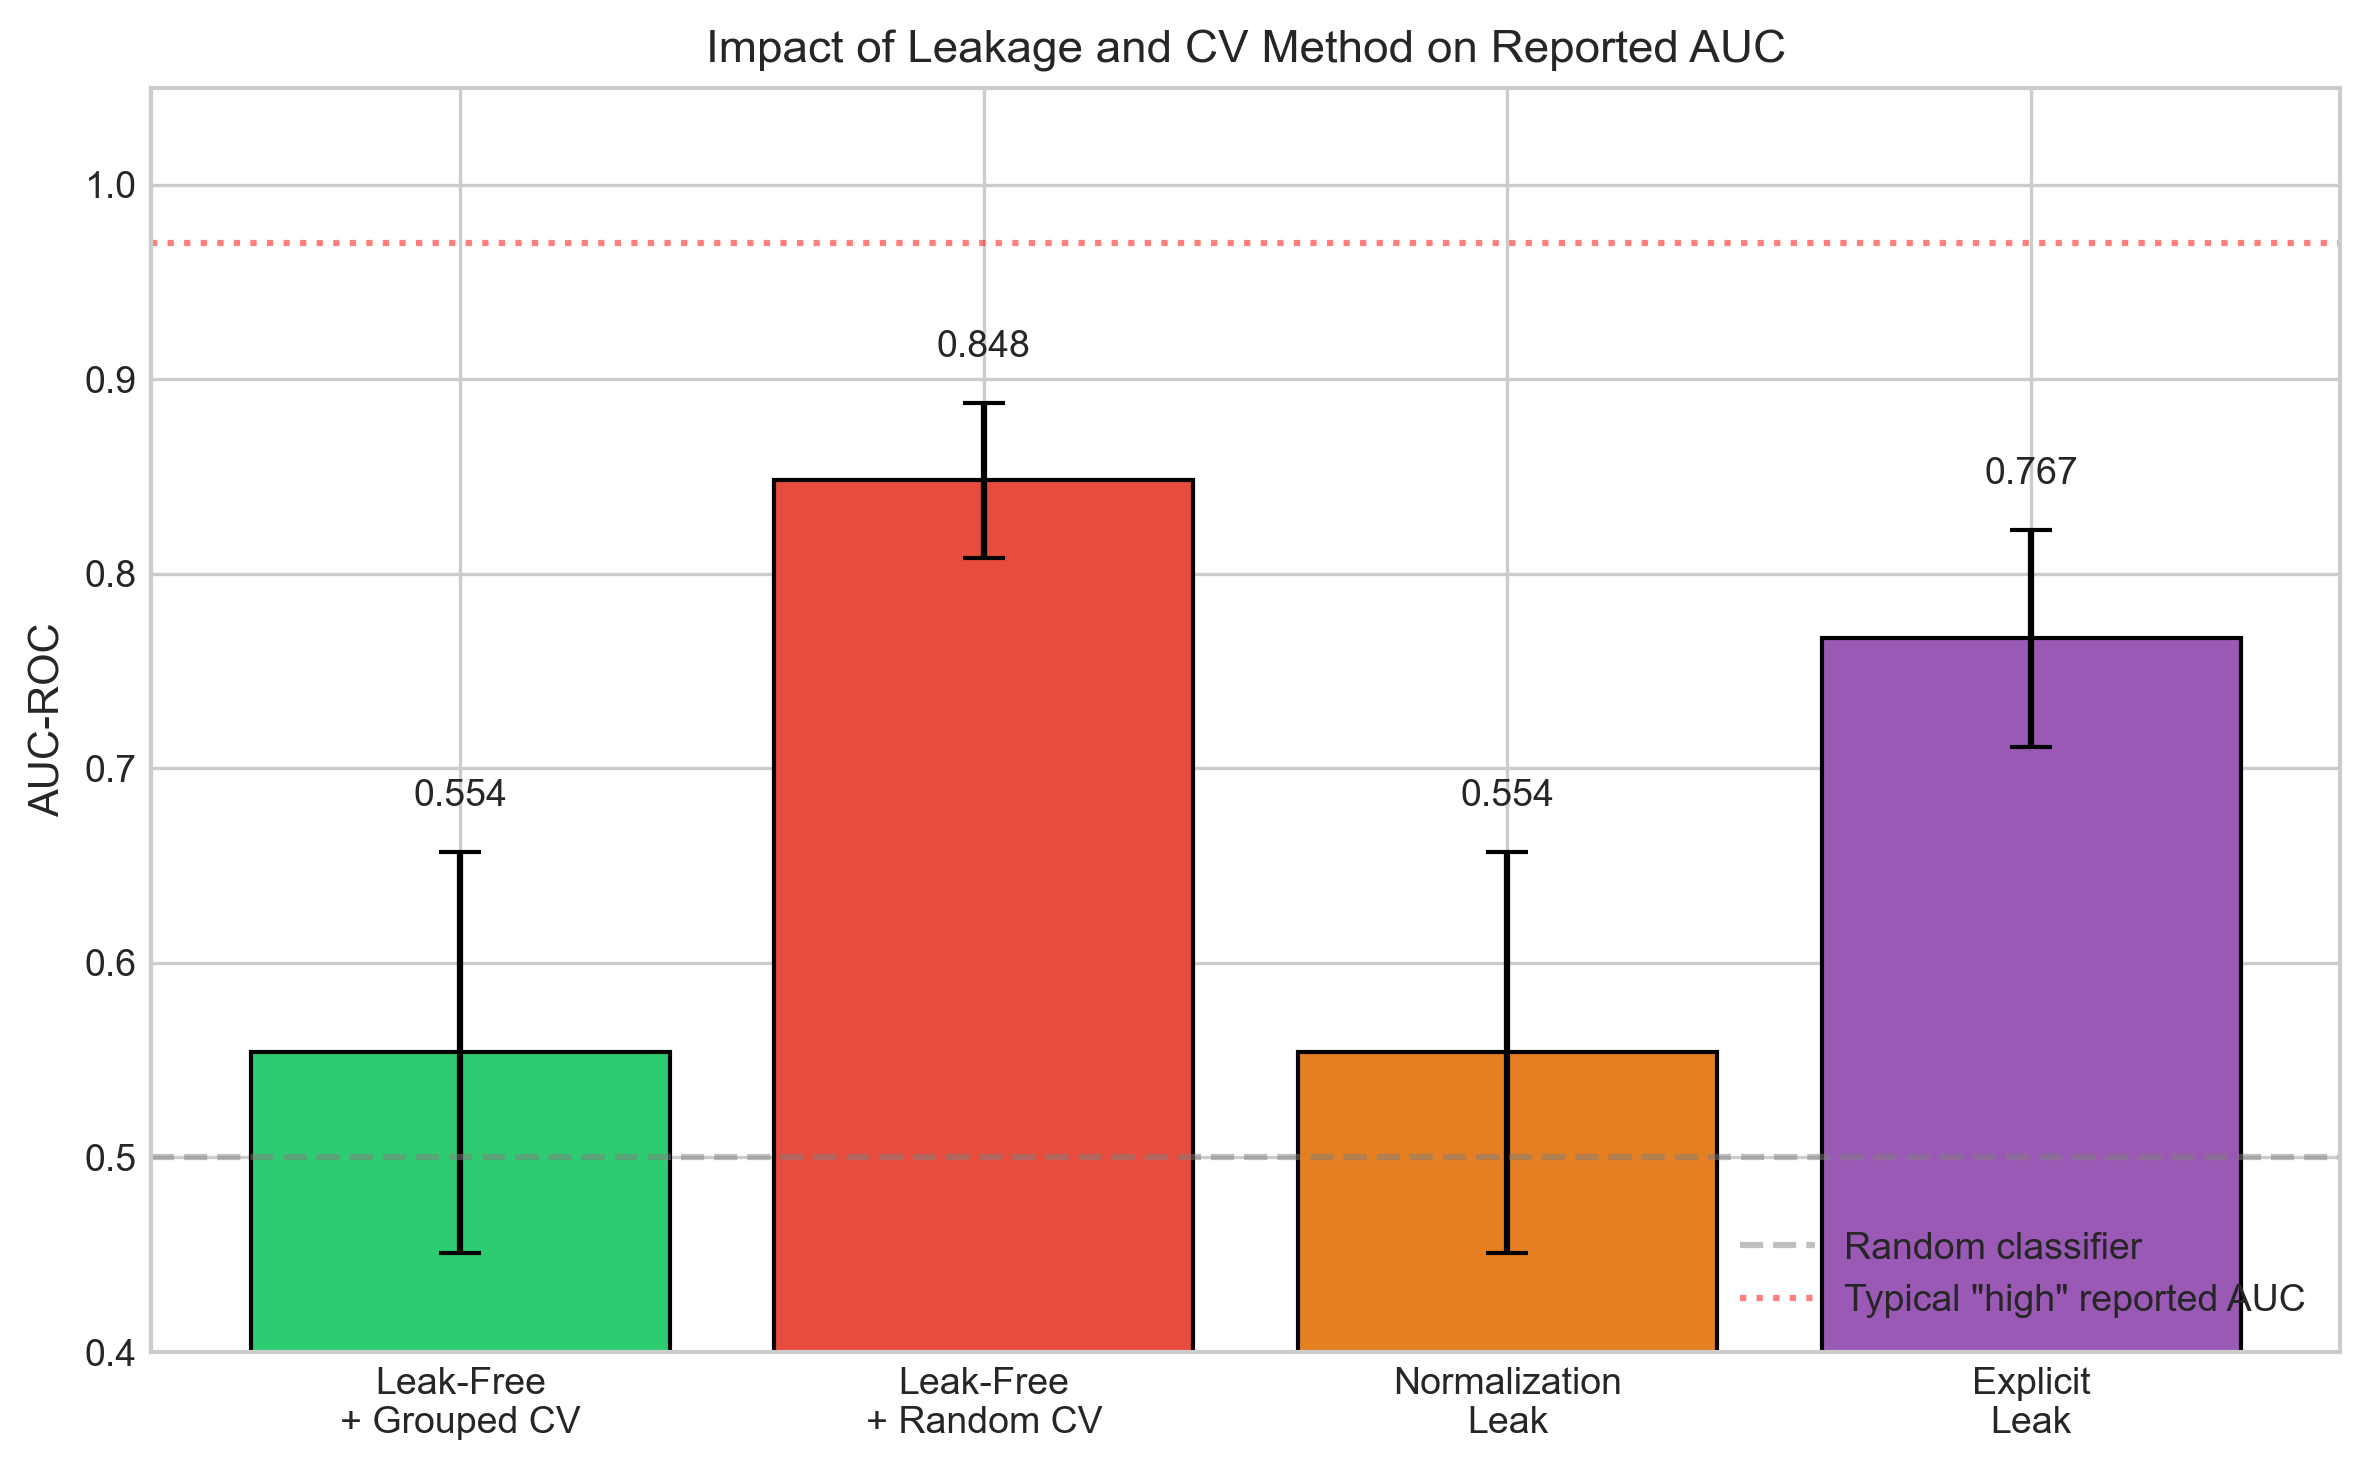
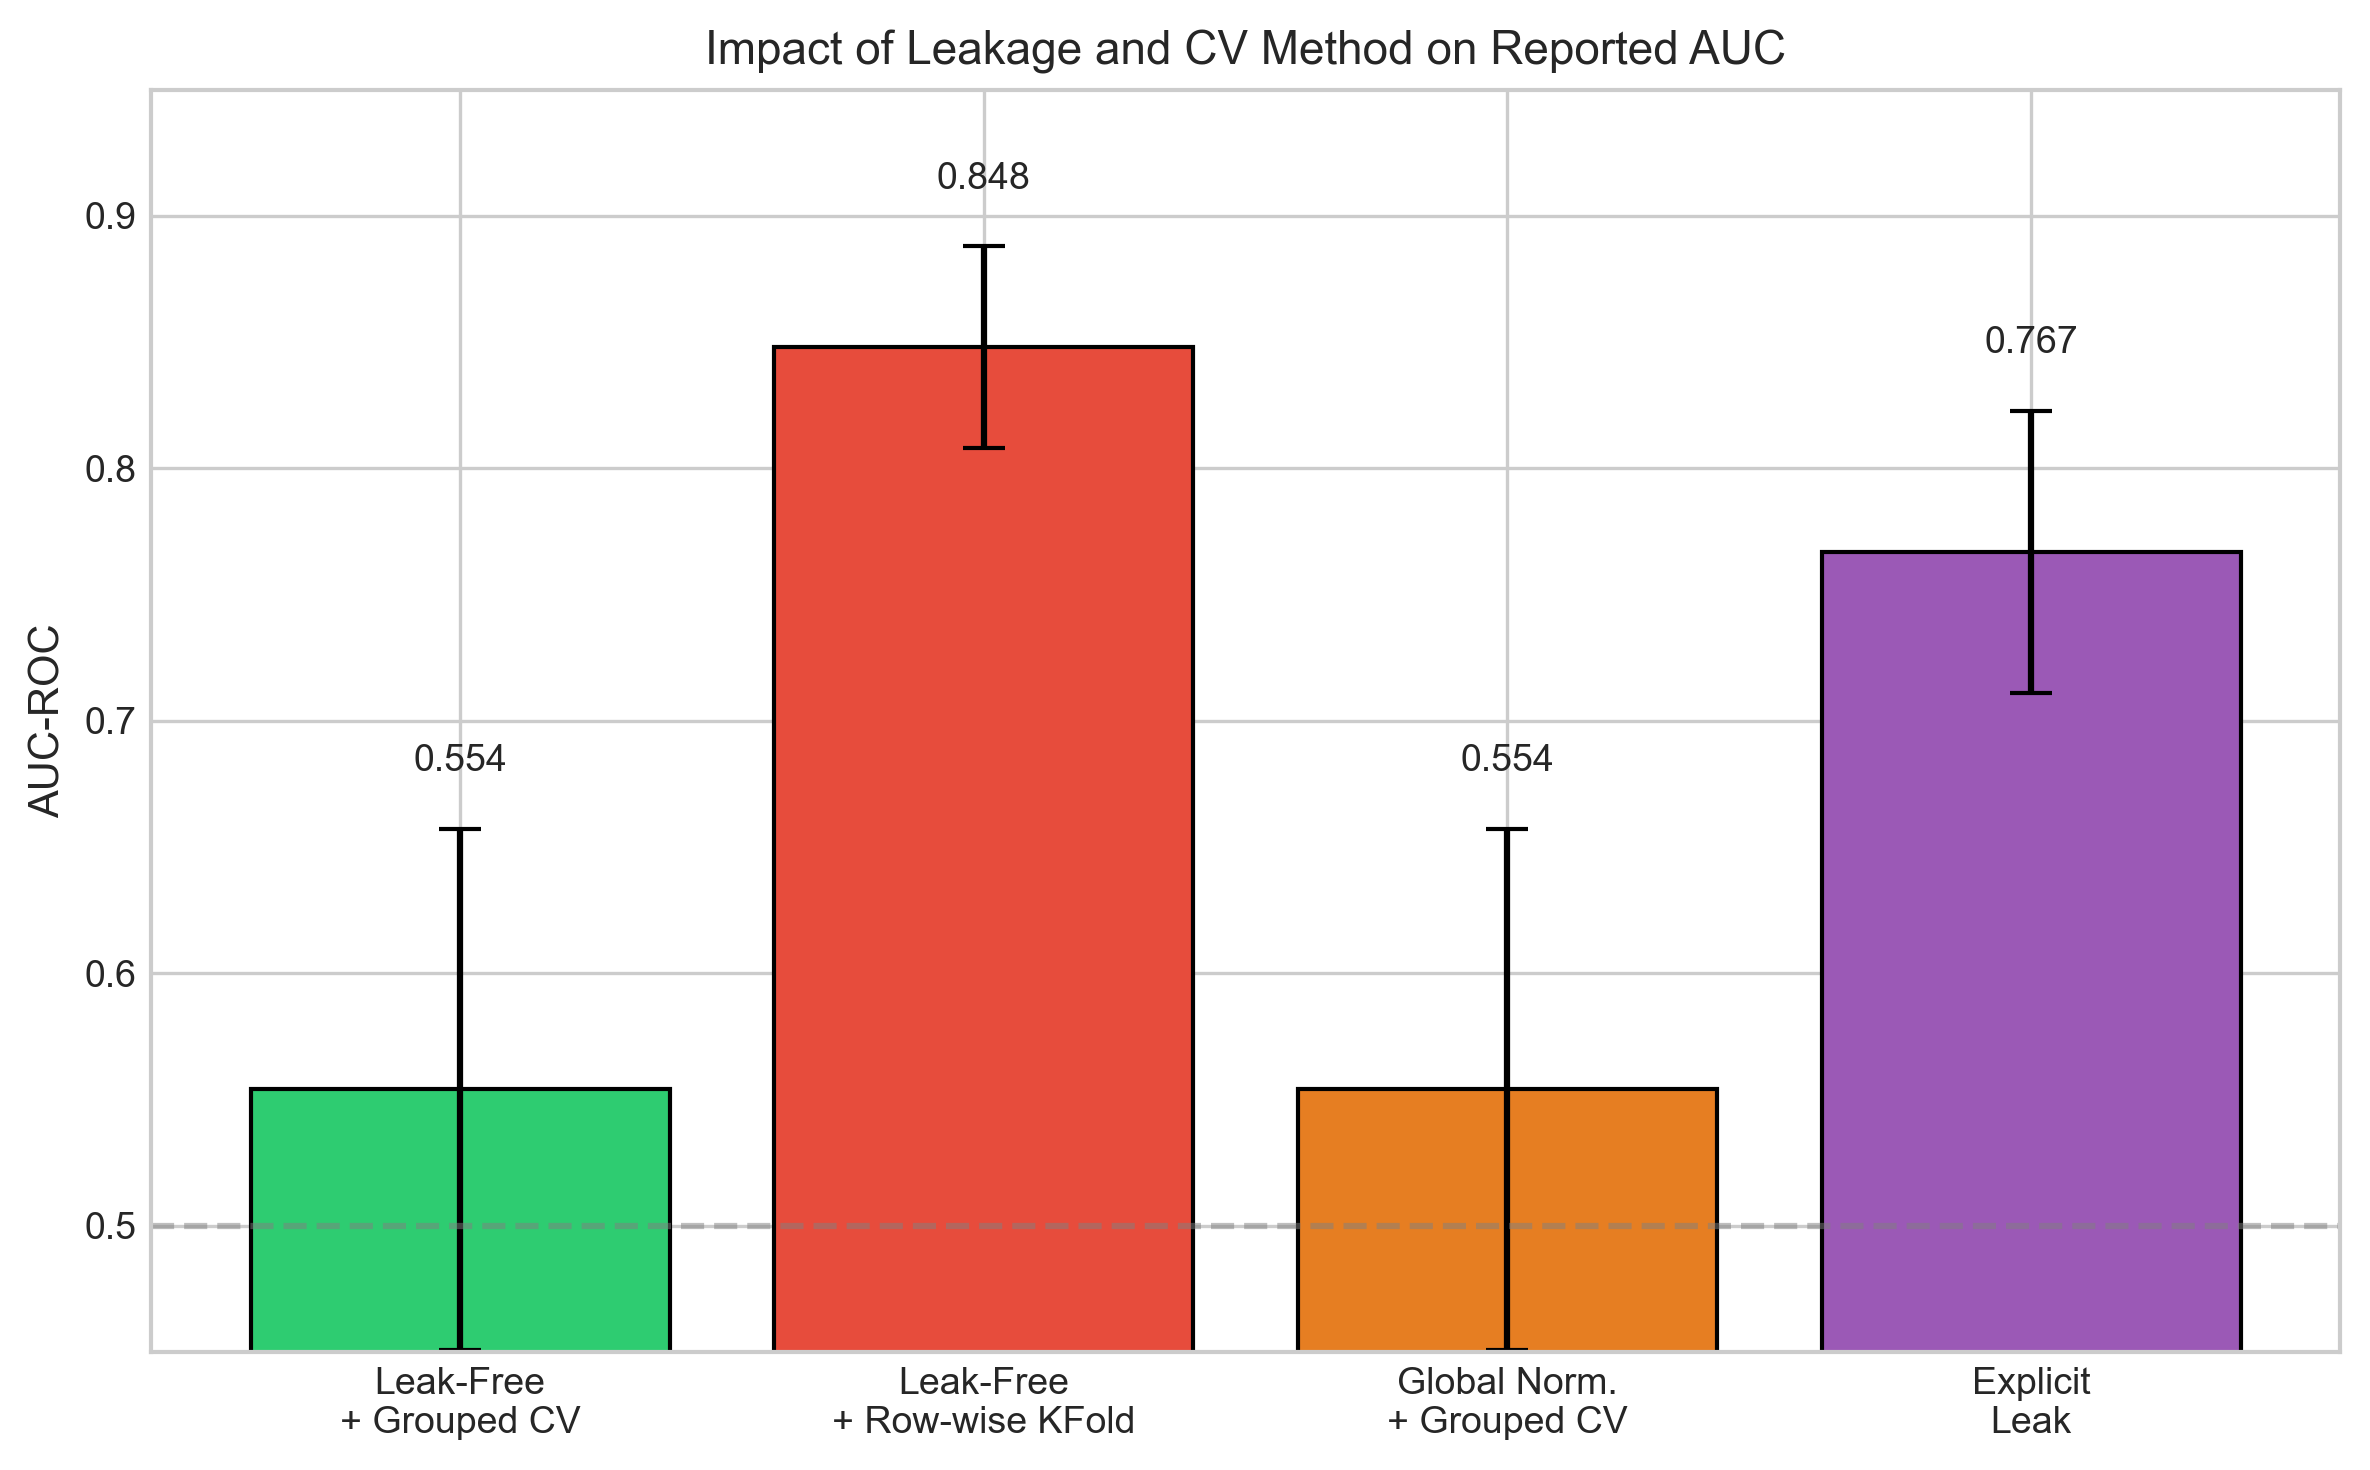
Polish IBERAMIA submission framing

diff --git a/main2_iberamia.tex b/main2_iberamia.tex
@@ -26,20 +26,20 @@
 \maketitle
 
 \begin{abstract}
-Trustworthy event forecasting in panel-expanded data depends on evaluation protocols that respect the dependence structure of episodes. A common workaround for small numbers of independent episodes expands each episode into daily observations, but this changes the evaluation problem: row-wise cross-validation can place observations from the same episode in both training and test sets, allowing a model to exploit episode-specific dependence rather than generalize to unseen episodes. We call this mechanism \emph{episode memorization}. We distinguish it from two related problems that are often conflated with it: explicit future-information leakage in features and preprocessing leakage from operations such as normalization or scaling. In a controlled benchmark with strictly causal features and a boosted-tree classifier, row-wise five-fold cross-validation inflates mean AUC from 0.55 to 0.85, whereas an explicit time-to-event leak reaches 0.77 under grouped five-fold evaluation. A compact robustness grid over three episode counts, three dependence levels, and three feature sizes shows that the mean $\DeltaCV$ gap remains near zero for logistic regression but rises from 0.15 to 0.18 for random forests and from 0.20 to 0.24 for boosted trees as dependence increases. Under a second DGP with monotone pre-event drift, full-trajectory episode normalization inflates grouped-CV AUC for logistic regression from 0.473 to 0.606. We therefore propose $\DeltaCV$, the gap between row-wise and grouped estimates, as a practical warning signal rather than a universal threshold, and we provide a dependence-aware evaluation protocol based on episode-grouped splitting and fold-local preprocessing. The contribution is methodological: a compact taxonomy, a mechanistic explanation, and a low-cost protocol for more trustworthy panel-expanded event forecasting.
+Trustworthy event forecasting in panel-expanded data depends on evaluation protocols that respect the dependence structure of episodes. A common workaround for small numbers of independent episodes expands each episode into daily observations, but this changes the evaluation problem: row-wise cross-validation can place observations from the same episode in both training and test sets, allowing a model to exploit episode-specific dependence rather than generalize to unseen episodes. We call this mechanism \emph{episode memorization}. We distinguish it from two related problems that are often conflated with it: explicit future-information leakage in features and preprocessing leakage from operations such as normalization or scaling. In a controlled benchmark with strictly causal features and a boosted-tree classifier, row-wise five-fold cross-validation increases mean AUC by 0.29, from 0.55 to 0.85. Under episode-grouped evaluation, an explicit time-to-event leak increases AUC by 0.21, from 0.55 to 0.77. A compact robustness grid over three episode counts, three dependence levels, and three feature sizes shows that the mean $\DeltaCV$ gap remains near zero for logistic regression but rises substantially for random forests and boosted trees as dependence increases. Under a second DGP with monotone pre-event drift, full-trajectory episode normalization inflates grouped-CV AUC for logistic regression from 0.473 to 0.606. We therefore propose $\DeltaCV$, the gap between row-wise and episode-grouped estimates, as a practical warning signal rather than a universal threshold, and we provide a dependence-aware evaluation protocol based on episode-grouped splitting and fold-local preprocessing. The contribution is methodological: a compact taxonomy, a mechanistic explanation, and a low-cost protocol for more trustworthy panel-expanded event forecasting.
 
 \keywords{pseudoreplication, cross-validation, panel data, event forecasting, episode memorization}
 \end{abstract}
 
 \section{Introduction}
 
-Trustworthy AI systems depend not only on model capacity, but also on evaluation protocols that match the deployment target. This is especially important in panel-expanded event forecasting, where the number of independent episodes is small but decisions may still rely on reported predictive accuracy. In domains such as conflict forecasting, clinical deterioration, and predictive maintenance, analysts may observe only 20--50 independent episodes with 10--20 features and then expand each episode into daily rows, turning a small set of evaluation units into hundreds of observations.
+Trustworthy AI systems depend not only on model capacity, but also on evaluation protocols that match the deployment target. This is especially important in panel-expanded event forecasting, where the number of independent episodes is small but decisions may still rely on reported predictive accuracy. In domains such as conflict forecasting~\cite{muchlinski2016,hegre2019}, clinical deterioration~\cite{rajkomar2018}, and predictive maintenance, analysts may observe only 20--50 independent episodes with 10--20 features and then expand each episode into daily rows, turning a small set of evaluation units into hundreds of observations. That is already a small-data regime by conventional events-per-variable heuristics for generalized linear models~\cite{peduzzi1996,vansmeden2016}.
 
-That expansion does not simply increase sample size; it changes the evaluation problem. When row-wise K-Fold cross-validation assigns expanded observations to folds independently, rows from the same episode can appear in both training and test sets. Because consecutive observations $X_{e,t}$ and $X_{e,t+1}$ are autocorrelated, a flexible model can recognize episode-specific trajectory structure rather than infer risk that transfers to unseen episodes. We call this mechanism \textbf{episode memorization}. In that setting, random row-wise CV turns a forecasting task (generalizing to new episodes) into a partially interpolative task (matching rows within known episodes).
+That expansion does not simply increase sample size; it changes the evaluation problem. When row-wise K-Fold cross-validation assigns expanded observations to folds independently, rows from the same episode can appear in both training and test sets. Because consecutive observations $X_{e,t}$ and $X_{e,t+1}$ are autocorrelated, a flexible model can recognize episode-specific trajectory structure rather than infer risk that transfers to unseen episodes. We call this mechanism \textbf{episode memorization}. In that setting, row-wise CV turns a forecasting task (generalizing to new episodes) into a partially interpolative task (matching rows within known episodes).
 
-It is useful to distinguish three failure modes that are often conflated. \emph{Explicit leakage} occurs when a feature directly encodes unavailable future information such as $T_e - t$. \emph{Normalization leakage} occurs when preprocessing uses observations that should be unavailable at prediction time. \emph{Pseudoreplication} occurs when dependent rows from the same episode are split across training and test folds. The first two are feature- or preprocessing-level violations. The third is an evaluation-design violation and can arise even when every feature is strictly causal.
+It is useful to distinguish three failure modes that are often conflated. \emph{Explicit leakage} occurs when a feature directly encodes unavailable future information such as $T_e - t$. \emph{Normalization leakage} occurs when test-fold statistics or future within-episode summaries enter preprocessing even though they would be unavailable at prediction time. \emph{Pseudoreplication} occurs when dependent rows from the same episode are split across training and test folds. The first two are feature- or preprocessing-level violations. The third is an evaluation-design violation and can arise even when every feature is strictly causal.
 
-In our simulation, replacing grouped five-fold evaluation with row-wise \texttt{KFold} inflates mean AUC from 0.55 to 0.85. In the same benchmark, an explicit time-to-event leak reaches 0.77 under grouped evaluation. We present this comparison as evidence that pseudoreplication can be severe, not as a universal ranking across all domains or models. Kaufman et al.~\cite{kaufman2012} formalized data leakage and learn-predict separation in i.i.d.\ settings. Roberts et al.~\cite{roberts2017} argued for block cross-validation for structured data. Hurlbert~\cite{hurlbert1984} coined \emph{pseudoreplication} in experimental design. Kapoor and Narayanan~\cite{kapoor2023} documented leakage across many applied ML papers, and Neunhoeffer and Sternberg~\cite{neunhoeffer2019} showed that cross-validation misuse can overturn substantive forecasting claims. We build on these strands in the specific setting of panel-expanded event forecasting, where dependence-aware evaluation is both necessary and easy to operationalize.
+In our simulation, replacing grouped five-fold evaluation with row-wise \texttt{KFold} increases mean AUC by 0.294, from 0.554 to 0.848. In the same benchmark, an explicit time-to-event leak increases grouped-evaluation AUC by 0.213, from 0.554 to 0.767. We present this comparison as evidence that pseudoreplication can be severe, not as a universal ranking across all domains or models. Kaufman et al.~\cite{kaufman2012} formalized data leakage and learn-predict separation in i.i.d.\ settings. Roberts et al.~\cite{roberts2017} argued for block cross-validation for structured data. Hurlbert~\cite{hurlbert1984} coined \emph{pseudoreplication} in experimental design. Kapoor and Narayanan~\cite{kapoor2023} documented leakage across many applied ML papers, and Neunhoeffer and Sternberg~\cite{neunhoeffer2019} showed that cross-validation misuse can overturn substantive forecasting claims. We build on these strands in the specific setting of panel-expanded event forecasting, where dependence-aware evaluation is both necessary and easy to operationalize.
 
 The paper makes five contributions. First, it clarifies the distinction between explicit leakage, preprocessing leakage, and pseudoreplication in expanded panels. Second, it formalizes episode memorization as the mechanism by which row-wise CV can produce optimistic estimates. Third, it quantifies the resulting optimism in a controlled benchmark with strictly causal features. Fourth, it stress-tests that optimism over a compact grid of episode counts, dependence levels, dimensionalities, and model families. Fifth, it proposes $\DeltaCV$, the gap between row-wise and grouped CV estimates, as a practical warning signal together with a dependence-aware evaluation protocol.
 
@@ -62,7 +62,7 @@ An observation exhibits \emph{explicit leakage} if a feature is not predictable 
 \end{definition}
 
 \begin{definition}[Normalization Leakage]
-\emph{Normalization leakage} occurs when preprocessing parameters are estimated using observations that would be unavailable at prediction time, such as global means, variances, or episode means that include post-$t$ values.
+\emph{Normalization leakage} occurs when test-fold statistics, future within-episode values, or full-trajectory episode summaries enter transformed inputs even though they would be unavailable at prediction time.
 \end{definition}
 
 \begin{definition}[Pseudoreplication]
@@ -88,7 +88,7 @@ Table~\ref{tab:failure_modes} summarizes the three failure modes emphasized in t
 \textbf{Failure mode} & \textbf{Mechanism} & \textbf{Future info?} & \textbf{Primary fix} \\
 \midrule
 Explicit leakage & Feature directly reveals a post-$t$ outcome signal such as $T_e - t$ & Yes & Redesign or remove feature \\
-Normalization leakage & Global or post-$t$ summary statistics enter transformed inputs & Indirectly & Fit transforms within folds or use trailing statistics \\
+Normalization leakage & Test-fold statistics, future within-episode values, or full-trajectory episode summaries enter transformed inputs & Indirectly & Fit transforms within each training fold; for online use, rely on trailing or historically available statistics \\
 Pseudoreplication & Rows from the same episode appear in both train and test folds & No & Group by episode at split time \\
 \bottomrule
 \end{tabular}
@@ -98,33 +98,34 @@ Normalization traps are heterogeneous. Simple global standardization $\tilde{X} 
 
 \section{Episode Memorization Under Row-Wise Cross-Validation}\label{sec:pseudo}
 
-Even with leak-free features, standard K-Fold CV inflates performance through \emph{episode memorization}. This is Hurlbert's~\cite{hurlbert1984} pseudoreplication translated to ML: ``replicates are not statistically independent.'' Within-episode observations share: (1)~latent episode effects $\alpha_e$; (2)~autocorrelated features with $\text{Corr}(X_{e,t}, X_{e,t+1}) \gg 0$; (3)~labels determined by the same $T_e$. When random CV places observations from episode $e$ in both training and test sets, the model learns episode-specific patterns---the ``texture'' of each episode's autocorrelation structure. At test time, it performs \textit{identity inference}: recognizing which episode an observation belongs to, then recalling the associated outcome. This transforms forecasting (extrapolation) into interpolation (pattern-matching). Under intraclass correlation $\rho$ with $m$ observations per episode:
+Even with leak-free features, standard K-Fold CV inflates performance through \emph{episode memorization}. This is Hurlbert's~\cite{hurlbert1984} pseudoreplication translated to ML: ``replicates are not statistically independent.'' Within-episode observations share: (1)~latent episode effects $\alpha_e$; (2)~autocorrelated features with $\text{Corr}(X_{e,t}, X_{e,t+1}) \gg 0$; (3)~labels determined by the same $T_e$. When row-wise CV places observations from episode $e$ in both training and test sets, the model learns episode-specific patterns---the ``texture'' of each episode's autocorrelation structure. At test time, it performs \textit{identity inference}: recognizing which episode an observation belongs to, then recalling the associated outcome. This transforms forecasting (extrapolation) into interpolation (pattern-matching). As a descriptive design-effect approximation, if each episode contributes approximately $m$ rows and the average within-episode pairwise correlation is $\bar{\rho}$, then
 \[
-n_{\text{eff}} = \frac{n}{1 + (m-1)\rho}.
+n_{\text{eff}} \approx \frac{n}{1 + (m-1)\bar{\rho}}.
 \]
+This approximation is not used for inference; it is reported only to highlight that panel expansion can substantially overstate the amount of independent evidence.
 
 A minimal example makes the mechanism concrete. Suppose episodes A, B, and C each contribute two daily rows. A random two-fold split may train on $\{A_1,B_1,C_2\}$ and test on $\{A_2,B_2,C_1\}$; every test row now has a sibling row from the same episode in training. A grouped split instead trains on $\{A_1,A_2,B_1,B_2\}$ and tests on $\{C_1,C_2\}$, forcing prediction to transfer across episodes rather than match within them.
 
-For $n=600$, $m=20$, $\rho=0.5$: $n_{\text{eff}} = 55$---a 10$\times$ reduction. But the inflation from episode memorization is \textit{not} merely a sample-size effect: in the empirical benchmark below, row-wise CV still achieves AUC above 0.8 despite the small effective sample size.
+For $n=600$, $m \approx 20$, and $\bar{\rho} \approx 0.5$, this approximation gives $n_{\text{eff}} \approx 55$---a 10$\times$ reduction. But the inflation from episode memorization is \textit{not} merely a sample-size effect: in the empirical benchmark below, row-wise CV still achieves AUC above 0.8 despite the small effective sample size.
 
 This suggests an empirical expectation that, once within-episode dependence is present, row-wise CV will exceed grouped CV more strongly for higher-capacity models. Section~\ref{sec:empirical} tests that expectation directly over a compact grid of dependence levels, episode counts, dimensionalities, and model families.
 
 \section{Empirical Validation}\label{sec:empirical}
 
-We generate $E=30$ episodes with: episode effect $\alpha_e \sim \mathcal{N}(0,0.5)$; AR(1) latent process $Z_{e,t} = 0.7 Z_{e,t-1} + \epsilon_t$; hazard $h_{e,t} = \sigmoid(-3 + \alpha_e + 0.15 Z_{e,t})$; features from $Z_{e,<t}$ only (strictly causal); and label $Y_{e,t} = \1\{t < T_e \leq t+14\}$. If no event occurs by $T_{\max}=60$, we set $T_e = T_{\max} + 1$ and treat the episode as censored. The intercept $-3$ corresponds to a low instantaneous daily hazard ($\operatorname{logit}^{-1}(-3)\approx 0.047$), but the 14-day horizon makes the induced row-level label much denser: over 10 seeds, the filtered at-risk panel contains about 615 observations, mean episode length 20.5, episode-event frequency 0.92, and positive-row prevalence 0.45. We therefore frame the paper as panel-expanded event forecasting rather than as a benchmark for ultra-rare row labels. The five base features are strictly causal transformations of $Z_{e,<t}$; for the robustness grid we add independent nuisance features to reach $p \in \{20,100\}$. The main benchmark uses a histogram gradient boosting classifier with 100 boosting iterations, maximum depth 4, and learning rate 0.1. Grouped and row-wise protocols both use $K=5$ for the main benchmark: \texttt{GroupKFold(n\_splits=5)} and shuffled \texttt{KFold(n\_splits=5)}. The compact robustness grid below uses grouped and row-wise three-fold CV for tractability. For each replicate, we compute out-of-fold predictions for all eligible rows and then compute a single pooled AUROC and Brier score. This avoids dropping grouped folds with one class, which can occur under episode-aware validation. Standardization is fit within each training fold except in the deliberate preprocessing-leakage conditions. The benchmark table below uses 30 replicates; the compact grid uses 2 replicates for each $E \times \rho \times p \times$ model cell.
+We generate $E=30$ episodes with: episode effect $\alpha_e \sim \mathcal{N}(0,0.5)$; AR(1) latent process $Z_{e,t} = 0.7 Z_{e,t-1} + \epsilon_t$; hazard $h_{e,t} = \sigmoid(-3 + \alpha_e + 0.15 Z_{e,t})$; features from $Z_{e,<t}$ only (strictly causal); and label $Y_{e,t} = \1\{t < T_e \leq t+14\}$. If no event occurs by $T_{\max}=60$, we set $T_e = T_{\max} + 1$ and treat the episode as censored. The intercept $-3$ corresponds to a low instantaneous daily hazard ($\operatorname{logit}^{-1}(-3)\approx 0.047$), but the 14-day horizon makes the induced row-level label much denser: over 10 seeds, the filtered at-risk panel contains about 615 observations, mean episode length 20.5, episode-event frequency 0.92, and positive-row prevalence 0.45. We therefore frame the paper as panel-expanded event forecasting rather than as a benchmark for ultra-rare row labels. The five base features are strictly causal transformations of $Z_{e,<t}$; for the robustness grid we add independent nuisance features to reach $p \in \{20,100\}$. The main benchmark uses a histogram gradient boosting classifier with 100 boosting iterations, maximum depth 4, and learning rate 0.1. Grouped and row-wise protocols both use $K=5$ for the main benchmark: \texttt{GroupKFold(n\_splits=5)} and shuffled \texttt{KFold(n\_splits=5)}. The compact robustness grid below uses grouped and row-wise three-fold CV for tractability. For each replicate, we compute out-of-fold predictions for all eligible rows and then compute a single pooled AUROC and Brier score. This avoids dropping grouped folds with one class, which can occur under episode-aware validation. Standardization is fit within each training fold except in the deliberate preprocessing-leakage conditions. The benchmark table below uses 30 replicates; the compact grid uses two replicates per $E \times \rho \times p \times$ model cell and should therefore be read as an exploratory stress-test of qualitative behavior rather than a claim of asymptotic precision.
 
 \begin{table}[t]
 \centering
-\caption{Simulation results (30 replicates). Row-wise CV produces the largest optimism in this benchmark.}\label{tab:sim}
+\caption{Simulation results (30 replicates). Row-wise KFold creates the largest absolute AUC gap in this benchmark.}\label{tab:sim}
 \small
 \begin{tabular}{@{}lccc@{}}
 \toprule
-Condition & AUC & Brier & Inflation \\
+Condition & AUC & Brier & $\Delta$AUC vs.\ baseline \\
 \midrule
 Leak-Free + Grouped CV & 0.554 $\pm$ 0.103 & 0.332 $\pm$ 0.056 & baseline \\
-Leak-Free + Random CV & \textbf{0.848 $\pm$ 0.040} & 0.154 $\pm$ 0.024 & \textbf{+53\%} \\
-Global Norm. + Grouped & 0.554 $\pm$ 0.103 & 0.332 $\pm$ 0.056 & +0\%$^\dagger$ \\
-Explicit Leak + Grouped & 0.767 $\pm$ 0.056 & 0.228 $\pm$ 0.046 & +38\% \\
+Leak-Free + Row-wise KFold & \textbf{0.848 $\pm$ 0.040} & 0.154 $\pm$ 0.024 & \textbf{+0.294} \\
+Global Norm. + Grouped CV & 0.554 $\pm$ 0.103 & 0.332 $\pm$ 0.056 & +0.000$^\dagger$ \\
+Explicit Leak + Grouped CV & 0.767 $\pm$ 0.056 & 0.228 $\pm$ 0.046 & +0.213 \\
 \bottomrule
 \multicolumn{4}{l}{\footnotesize $^\dagger$See text for interpretation.}
 \end{tabular}
@@ -133,15 +134,15 @@ Explicit Leak + Grouped & 0.767 $\pm$ 0.056 & 0.228 $\pm$ 0.046 & +38\% \\
 \begin{figure}[t]
 \centering
 \includegraphics[width=0.72\textwidth]{auc_comparison_bars.png}
-\caption{Main benchmark (30 replicates) under matched five-fold protocols. Row-wise K-Fold inflates AUROC and improves Brier score relative to episode-grouped five-fold validation even though the features are strictly causal.}
+\caption{Main benchmark (30 replicates) under matched five-fold protocols. Row-wise KFold increases AUROC and improves Brier score relative to episode-grouped five-fold validation even though the features are strictly causal.}
 \label{fig:simulation}
 \end{figure}
 
-Table~\ref{tab:sim} and Figure~\ref{fig:simulation} reveal the central finding: row-wise cross-validation alone can create substantial optimism. Random CV yields AUC=0.848 from strictly causal features---a 53\% inflation over grouped CV (AUC=0.554). The $\DeltaCV$ gap is 0.294. In this benchmark, explicit $T_e - t$ leakage inflates by 38\%. Simple global normalization shows +0\% inflation because the base DGP is approximately stationary. That row should therefore be read as a conservative stationary benchmark, not as evidence that preprocessing leakage is unimportant. The same benchmark still averages only about 65 effective observations despite roughly 615 at-risk rows, underscoring that row expansion does not create independent evidence.
+Table~\ref{tab:sim} and Figure~\ref{fig:simulation} reveal the central finding: row-wise cross-validation alone can create substantial optimism. Row-wise KFold yields AUC=0.848 from strictly causal features---an absolute AUC gap of 0.294 over grouped CV (AUC=0.554). In this benchmark, explicit $T_e - t$ leakage raises grouped-evaluation AUC by 0.213. Simple global normalization shows no measurable AUC gap because the base DGP is approximately stationary. That row should therefore be read as a conservative stationary benchmark, not as evidence that preprocessing leakage is unimportant. The same benchmark still averages only about 65 effective observations despite roughly 615 at-risk rows, underscoring that row expansion does not create independent evidence.
 
 \begin{table}[t]
 \centering
-\caption{Compact robustness grid: mean $\DeltaCV$ averaged over $E \in \{20,50,100\}$ and $p \in \{5,20,100\}$ (2 replicates per cell).}\label{tab:grid}
+\caption{Exploratory compact robustness grid: mean $\DeltaCV$ averaged over $E \in \{20,50,100\}$ and $p \in \{5,20,100\}$ (2 replicates per cell).}\label{tab:grid}
 \small
 \begin{tabular}{@{}lccc@{}}
 \toprule
@@ -154,11 +155,11 @@ Boosted trees & 0.20 & 0.24 & 0.24 \\
 \end{tabular}
 \end{table}
 
-Table~\ref{tab:grid} tests whether the main result is tied to one model or one dimensionality setting. Across 81 $E \times \rho \times p \times$ model cells, higher-capacity tree ensembles exhibit much larger row-wise optimism than logistic regression. Averaged over $E$ and $p$, mean $\DeltaCV$ rises from 0.15 to 0.18 for random forests and from 0.20 to 0.24 for boosted trees as dependence increases from $\rho=0$ to $\rho=0.9$, whereas logistic regression remains near zero (0.02--0.04). Varying $p$ up to 100 nuisance features does not remove the effect, so the optimism is not confined to low-dimensional settings. The largest individual gaps in the grid are 0.34--0.46 AUC points and occur in the smallest-$E$, highest-dependence, tree-based conditions.
+Table~\ref{tab:grid} tests whether the main result is tied to one model or one dimensionality setting. Across 81 $E \times \rho \times p \times$ model cells, higher-capacity tree ensembles exhibit much larger row-wise optimism than logistic regression. Averaged over $E$ and $p$, mean $\DeltaCV$ rises from 0.15 to 0.18 for random forests and from 0.20 to 0.24 for boosted trees as dependence increases from $\rho=0$ to $\rho=0.9$, whereas logistic regression remains near zero (0.02--0.04). Varying $p$ up to 100 nuisance features does not remove the effect, so the optimism is not confined to low-dimensional settings. Because this grid uses only two replicates per cell, we interpret it as an exploratory stress-test rather than a precise estimate of effect size. The largest individual gaps in the grid are 0.34--0.46 AUC points and occur in the smallest-$E$, highest-dependence, tree-based conditions.
 
 The nonzero gap at $\rho=0$ shows that the effect is not driven by autocorrelation alone. Episode-level latent heterogeneity and shared event-time structure can already create row-wise optimism; increasing autocorrelation strengthens the same evaluation-unit mismatch.
 
-Normalization leakage required a second DGP with monotone pre-event drift. In that setting, simple global standardization again had negligible effect, but full-trajectory episode-wise normalization leaked future within-episode values and raised grouped-CV AUC for logistic regression from 0.473 $\pm$ 0.064 to 0.606 $\pm$ 0.004. Tree ensembles were less sensitive in the same experiment. The practical implication is that preprocessing leakage is real but model-dependent: some transforms are benign in a given benchmark, whereas others can materially inflate grouped evaluation.
+Normalization leakage required a second DGP with monotone pre-event drift. In that setting, simple global standardization again had negligible effect, but full-trajectory episode-wise normalization leaked future within-episode values and raised grouped-CV AUC for logistic regression from 0.473 $\pm$ 0.064 to 0.606 $\pm$ 0.004. The very small replicate variability in the leaky condition indicates that this shift is stable across seeds in this DGP rather than driven by one anomalous run. Tree ensembles were less sensitive in the same experiment. The practical implication is that preprocessing leakage is real but model-dependent: some transforms are benign in a given benchmark, whereas others can materially inflate grouped evaluation.
 
 Figure~\ref{fig:robustness_drift} complements Table~\ref{tab:grid} by making the two supporting patterns visually explicit: the rise in mean $\DeltaCV$ with $\rho$ is concentrated in tree-based learners, and in the drift DGP the largest grouped-CV shift appears for logistic regression under full-trajectory episode normalization.
 
@@ -171,13 +172,13 @@ Figure~\ref{fig:robustness_drift} complements Table~\ref{tab:grid} by making the
 
 \section{The DeltaCV Diagnostic}\label{sec:protocol}
 
-We propose a simple diagnostic for episode memorization:
+We propose a simple diagnostic for split sensitivity under panel expansion:
 
 \begin{definition}[$\DeltaCV$ Diagnostic]
-$\DeltaCV := \widehat{\text{AUC}}_{\text{random}} - \widehat{\text{AUC}}_{\text{grouped}}$. Large positive values indicate potential evaluation optimism from within-episode overlap.
+$\DeltaCV := \widehat{\text{AUC}}_{\text{row-KFold}} - \widehat{\text{AUC}}_{\text{episode-GroupKFold}}$. Large positive values indicate split sensitivity: the model performs better when test rows are allowed to share episodes with training rows than when entire episodes are held out.
 \end{definition}
 
-In our main benchmark, $\DeltaCV = 0.294$. In the robustness grid, logistic regression usually stays near zero, whereas random forests and boosted trees remain well above 0.10 on average and grow with $\rho$. That pattern makes values around 0.05 a useful warning heuristic in our setting, but we do not claim a universal decision threshold. The relevant magnitude will depend on the domain, target definition, dependence strength, and model family. This metric requires no additional data collection---only re-running evaluation with grouped validation instead of row-wise \texttt{KFold}.
+In our main benchmark, $\DeltaCV = 0.294$. In the robustness grid, logistic regression usually stays near zero, whereas random forests and boosted trees remain well above 0.10 on average and grow with $\rho$. That pattern makes values around 0.05 a useful warning heuristic in our setting, but we do not claim a universal decision threshold. The relevant magnitude will depend on the domain, target definition, dependence strength, and model family. This metric requires no additional data collection---only re-running evaluation with episode-grouped validation instead of row-wise \texttt{KFold}.
 
 \textbf{Corrected Protocol:} (1)~\textit{Preprocessing:} fit transformations on training folds only; use forward-fill imputation and trailing windows. (2)~\textit{Evaluation:} use grouped splitting with \texttt{groups=episode\_id}; never split episodes across folds. (3)~\textit{Reporting:} report $\DeltaCV$ and $n_{\text{eff}}$ alongside AUC.
 
@@ -187,9 +188,11 @@ In our main benchmark, $\DeltaCV = 0.294$. In the robustness grid, logistic regr
 
 The main lesson is not that pseudoreplication is always larger than every other leakage mechanism. Rather, row-wise CV can by itself create severe optimism when expanded rows retain strong episode-specific dependence. This matters because row-wise splitters are convenient defaults in general-purpose ML libraries and can be applied mechanically to expanded panels even when they are inappropriate for the underlying prediction target.
 
+Row-wise validation is not always invalid. If the deployment target is interpolation within already observed episodes---for example, forecasting future rows for machines, patients, or regions that are already represented in the training history---then a row-wise or temporally blocked within-episode split may estimate a relevant risk. Our critique applies when the target is generalization to new episodes, where the independent sampling unit is the episode rather than the expanded row.
+
 Our study has limitations. The evidence remains simulation-based and does not establish how prevalent the problem is in published practice. Although the robustness grid now spans linear, bagged-tree, and boosted-tree models, we do not yet include real-data reanalyses or sequence models. The strongest normalization example used full-trajectory episode-wise normalization on a drift DGP; simple global standardization alone was much weaker in this synthetic setting. Because the label asks whether an event occurs within the next 14 days, the simulated row-level positive prevalence is not ultra-rare even though the underlying daily hazard is low. The paper is therefore best read as a contribution on dependence-aware evaluation for panel-expanded event forecasting rather than as a full study of extreme class imbalance or prevalence in published practice.
 
-Even with these limitations, the implication for trustworthy evaluation is straightforward. Panel expansion creates value only if validation respects episode boundaries. In our benchmark, replacing grouped evaluation with row-wise K-Fold inflates AUC by 53\% despite strictly causal features, and the compact grid shows that the same qualitative problem persists across episode counts, dimensionalities, and model families, especially for tree-based learners. Reporting grouped CV, fold-local preprocessing, $\DeltaCV$, and $n_{\text{eff}}$ would make such optimism easier to detect and easier to discuss transparently in future panel-expanded event forecasting studies.
+Even with these limitations, the implication for trustworthy evaluation is straightforward. Panel expansion creates value only if validation respects episode boundaries. In our benchmark, replacing grouped evaluation with row-wise KFold increases AUC by 0.294 despite strictly causal features, and the compact grid shows that the same qualitative problem persists across episode counts, dimensionalities, and model families, especially for tree-based learners. Reporting grouped CV, fold-local preprocessing, $\DeltaCV$, and approximate $n_{\text{eff}}$ would make such optimism easier to detect and easier to discuss transparently in future panel-expanded event forecasting studies.
 
 \bibliographystyle{splncs04}
 \bibliography{references}

diff --git a/src/plotting.py b/src/plotting.py
@@ -79,8 +79,8 @@ def plot_auc_comparison_bars(
 
     condition_labels = {
         'leak_free_grouped': 'Leak-Free\n+ Grouped CV',
-        'leak_free_random': 'Leak-Free\n+ Random CV',
-        'norm_leak_grouped': 'Normalization\nLeak',
+        'leak_free_random': 'Leak-Free\n+ Row-wise KFold',
+        'norm_leak_grouped': 'Global Norm.\n+ Grouped CV',
         'explicit_leak_grouped': 'Explicit\nLeak'
     }
 
@@ -115,14 +115,11 @@ def plot_auc_comparison_bars(
     ax.set_xticks(x_pos)
     ax.set_xticklabels([condition_labels[c] for c in condition_order])
     ax.set_ylabel('AUC-ROC')
-    ax.set_ylim(0.4, 1.05)
+    ax.set_ylim(0.45, 0.95)
     ax.set_title('Impact of Leakage and CV Method on Reported AUC')
 
-    # Add reference lines
-    ax.axhline(y=0.5, color='gray', linestyle='--', alpha=0.5, label='Random classifier')
-    ax.axhline(y=0.97, color='red', linestyle=':', alpha=0.5, label='Typical "high" reported AUC')
-
-    ax.legend(loc='lower right')
+    # Chance-performance reference
+    ax.axhline(y=0.5, color='gray', linestyle='--', alpha=0.5)
 
     plt.tight_layout()
 
@@ -164,7 +161,7 @@ def plot_four_panel_simulation(
 
     condition_labels = {
         'leak_free_grouped': 'Baseline\n(Correct)',
-        'leak_free_random': 'Random CV\n(Pseudorep.)',
+        'leak_free_random': 'Row-wise KFold\n(Pseudorep.)',
         'norm_leak_grouped': 'Norm. Leak',
         'explicit_leak_grouped': 'Explicit Leak'
     }

diff --git a/experiments/run_strengthening_experiments.py b/experiments/run_strengthening_experiments.py
@@ -22,7 +22,12 @@ from typing import Iterable
 
 import numpy as np
 import pandas as pd
-from tqdm import tqdm
+
+try:
+    from tqdm import tqdm
+except ImportError:
+    def tqdm(iterable, **_: object):
+        return iterable
 
 sys.path.insert(0, str(Path(__file__).parent.parent))
 

diff --git a/src/evaluation.py b/src/evaluation.py
@@ -25,7 +25,11 @@ from sklearn.metrics import (
 )
 from sklearn.calibration import calibration_curve
 from typing import Tuple, List, Dict, Optional, Callable
-from tqdm import tqdm
+try:
+    from tqdm import tqdm
+except ImportError:
+    def tqdm(iterable, **_: object):
+        return iterable
 import warnings
 
 try: